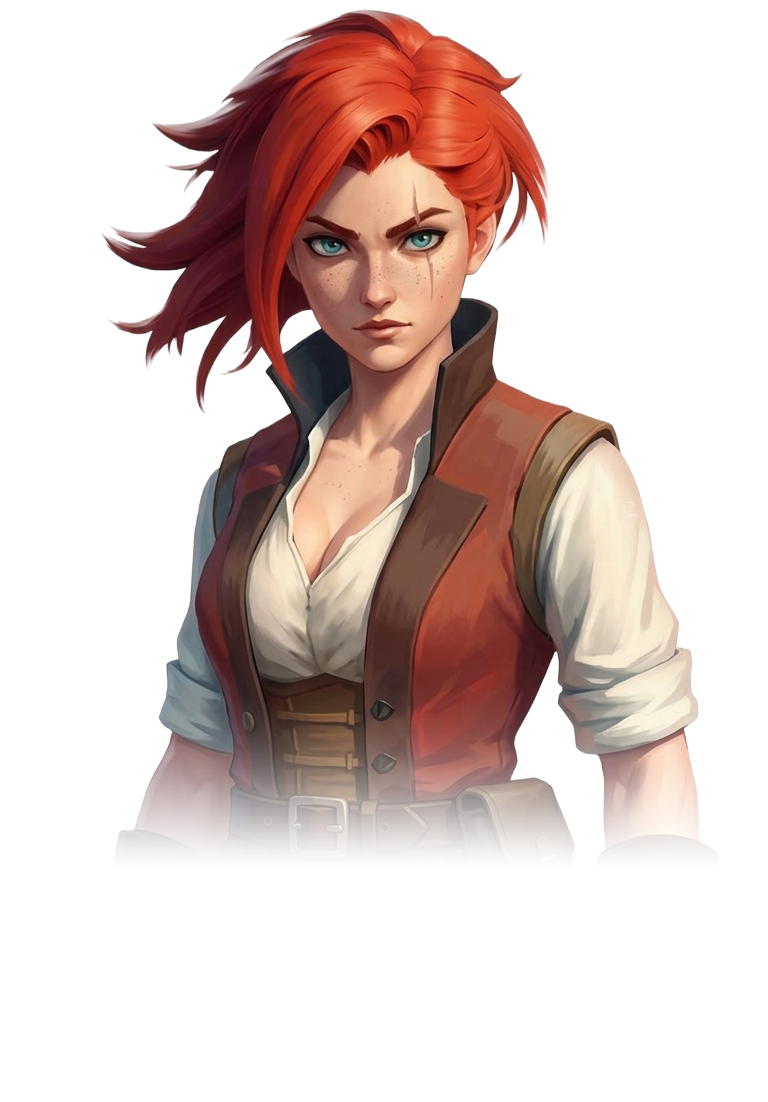
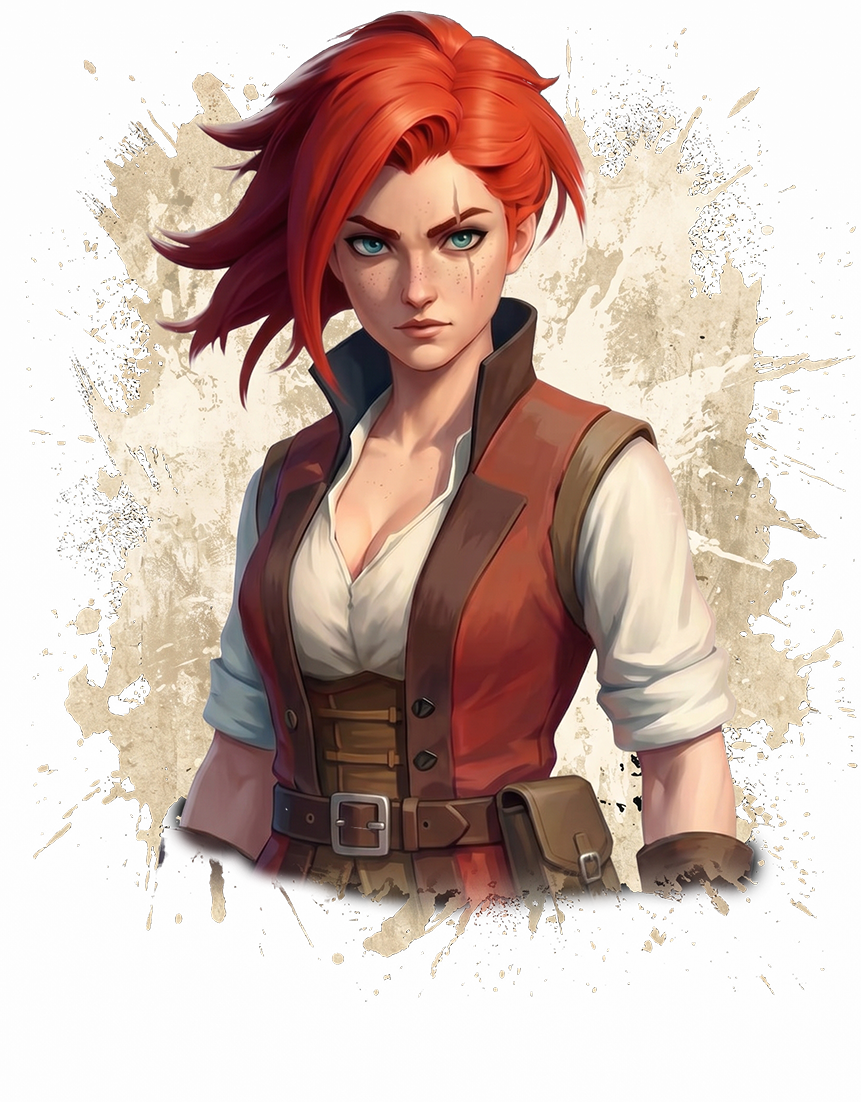
Add files via upload

diff --git a/style.css b/style.css
@@ -26,7 +26,7 @@
 :root {
     --color-bg: #0a0e17;           /* Основной фон */
     --color-bg-secondary: #0d1320; /* Фон вторичных секций */
-    --color-accent: #c9a227;       /* Золотой акцент */
+    --color-accent: #F9CE50;       /* Золотой акцент */
     --color-accent-hover: #e5c44a; /* Золотой при наведении */
     --color-text: #e8e4dc;         /* Основной текст */
     --color-text-muted: #8a8a8a;   /* Приглушенный текст */
@@ -219,10 +219,9 @@ body {
 
 .star {
     position: absolute;
-    background: white;
+    background: rgba(255, 255, 255, 0.7);
     border-radius: 50%;
-    box-shadow: 0 0 4px 1px rgba(255, 255, 255, 0.8),
-                0 0 8px 2px rgba(200, 220, 255, 0.4);
+    box-shadow: 0 0 2px 1px rgba(255, 255, 255, 0.3);
     animation: twinkle ease-in-out infinite;
 }
 
@@ -255,7 +254,7 @@ body {
     z-index: 10;
     text-align: center;
     margin: auto;
-    padding: 60vh 24px 50px; /* Контент ещё ниже */
+    padding: 52vh 24px 50px; /* Контент ниже, но в пределах экрана */
 }
 
 .hero-title {
@@ -267,7 +266,7 @@ body {
    Измени max-width чтобы увеличить/уменьшить
    ============================================ */
 .hero-title img {
-    max-width: 200px;  /* <-- ИЗМЕНИ РАЗМЕР ЛОГОТИПА ЗДЕСЬ */
+    max-width: 320px;  /* <-- ИЗМЕНИ РАЗМЕР ЛОГОТИПА ЗДЕСЬ */
     width: 100%;
     height: auto;
     filter: drop-shadow(0 4px 30px rgba(0, 0, 0, 0.8));
@@ -727,11 +726,11 @@ body {
 }
 
 .closing-heroine {
-    width: 350px;
+    width: 420px;
     height: auto;
     filter: drop-shadow(0 4px 15px rgba(0, 0, 0, 0.4));
     /* РАССТОЯНИЕ: портрет героини → текст (десктоп) */
-    margin-bottom: -80px;
+    margin-bottom: -40px;
 }
 
 .closing-text {
@@ -939,7 +938,7 @@ body {
     }
 
     .hero-title img {
-        max-width: 400px;
+        max-width: 320px;
     }
 }
 
@@ -982,7 +981,7 @@ body {
     }
 
     .hero-title img {
-        max-width: 180px; /* Меньше логотип */
+        max-width: 320px; /* Меньше логотип */
     }
 
     .cta-button-img img {
@@ -1109,9 +1108,9 @@ body {
     }
 
     .closing-heroine {
-        width: 250px;
+        width: 300px;
         /* РАССТОЯНИЕ: портрет героини → текст (планшеты/мобилки до 768px) */
-        margin-bottom: -50px;
+        margin-bottom: -20px;
     }
 
     .closing-text {
@@ -1151,7 +1150,7 @@ body {
     }
 
     .hero-title img {
-        max-width: 160px; /* Еще меньше логотип */
+        max-width: 240px; /* Еще меньше логотип */
     }
 
     .cta-button-img img {
@@ -1249,9 +1248,9 @@ body {
     }
 
     .closing-heroine {
-        width: 192px;
+        width: 230px;
         /* РАССТОЯНИЕ: портрет героини → текст (маленькие мобилки до 480px) */
-        margin-bottom: -50px;
+        margin-bottom: 0px;
     }
 
     .closing-text {

diff --git a/index.html b/index.html
@@ -385,10 +385,6 @@
         <div class="star star-4"></div>
         <div class="star star-5"></div>
         <div class="star star-6"></div>
-        <div class="star star-7"></div>
-        <div class="star star-8"></div>
-        <div class="star star-9"></div>
-        <div class="star star-10"></div>
     </div>
 
     <script>

diff --git a/AGENTS.md b/AGENTS.md
@@ -1,0 +1,94 @@
+# Pirate Ships Landing Page — Руководство для AI-агентов
+
+## Обзор проекта
+
+Это статический лендинг для игры **Pirate Ships** (PvP-игра о строительстве кораблей и морских битвах). Сайт полностью на русском языке и представляет собой одностраничное приложение с семью основными секциями:
+
+1. **Navigation** — фиксированная шапка с логотипом и меню.
+2. **Hero** — полноэкранный баннер с Key Art, мерцающими звёздами и CTA-кнопкой.
+3. **About** — текстовое описание игры.
+4. **Features** — три карточки с особенностями игры.
+5. **Screenshots** — горизонтальная карусель скриншотов с drag-to-scroll.
+6. **Closing CTA** — финальный призыв к действию.
+7. **Footer** — ссылки и копирайт.
+
+## Структура проекта
+
+```
+.
+├── index.html          # Единственный HTML-файл (разметка + inline JS)
+├── style.css           # Единственный файл стилей (~1100 строк)
+└── images/             # Все изображения и ассеты
+    ├── KeyArt.jpg
+    ├── logo_header.png
+    ├── logo_box.png
+    ├── Play_BTN.png
+    ├── feature_shipbuilding.png
+    ├── feature_pvp.jpg
+    ├── feature_pve.png
+    ├── screenshot1.jpg … screenshot5.jpg
+    ├── screenshots_bg.png
+    ├── heroine_new.png
+    ├── brush_1.png
+    └── Brush_2.png
+```
+
+## Технологический стек
+
+- **HTML5** — семантическая разметка, русский язык контента (`lang="ru"`).
+- **CSS3** — кастомные свойства в `:root`, анимации (`@keyframes`), flexbox, grid, медиа-запросы для адаптивности.
+- **Vanilla JavaScript** — весь интерактив (мобильное меню, карусель, lightbox, свайпы) находится в конце `index.html` внутри `<script>`.
+- **Внешние зависимости** — только шрифт **Lora** с Google Fonts.
+- **Нет сборщиков, нет пакетных менеджеров** — проект не использует `package.json`, `pyproject.toml`, `Cargo.toml` или аналогичные конфигурации.
+
+## Архитектура и организация кода
+
+- **Монолитная структура**: весь HTML и JS содержится в одном файле `index.html`, а все стили — в `style.css`.
+- **CSS-переменные** в `:root` задают единую цветовую схему и типографику:
+  - `--color-bg: #0a0e17`
+  - `--color-accent: #c9a227`
+  - `--font-heading: 'Lora', serif`
+- **Комментарии в коде** на русском языке разделяют секции и указывают, что можно редактировать.
+- **Интерактивные компоненты** реализованы без сторонних библиотек:
+  - Мобильное меню (бургер).
+  - Карусель скриншотов со стрелками, drag-to-scroll и touch-свайпами.
+  - Lightbox для полноэкранного просмотра скриншотов с клавиатурной навигацией (Escape, стрелки).
+
+## Адаптивность
+
+Медиа-запросы в `style.css` обеспечивают адаптацию под три диапазона:
+
+- **Десктоп** — полная версия.
+- **Планшеты (`max-width: 1024px`)** — сетка фичей из 2 колонок, увеличенные скриншоты.
+- **Мобильные (`max-width: 768px` и `max-width: 480px`)** — одноколоночный layout, скрытые декоративные звёзды, упрощённая навигация, скрытые стрелки карусели.
+
+## Соглашения по разработке
+
+- **Язык комментариев** — русский. Все пояснения и разделители секций написаны на русском.
+- **Маркеры для редактирования** — в HTML используется комментарий `<!-- ЗАМЕНИТЬ: ... -->`, чтобы указать кастомизируемый контент (тексты, ссылки, пути к изображениям).
+- **Безопасность** — проект чисто клиентский, нет серверной логики, API-запросов или обработки пользовательских данных. Единственное внешнее подключение — Google Fonts через HTTPS.
+
+## Сборка и деплой
+
+- **Сборка не требуется** — проект состоит из статических файлов.
+- **Локальный запуск** — достаточно открыть `index.html` в браузере или запустить простой HTTP-сервер (например, `python -m http.server` или `npx serve`).
+- **Деплой** — копирование файлов `index.html`, `style.css` и папки `images/` на любой статический хостинг (GitHub Pages, Netlify, Vercel, S3 и т.д.).
+
+## Тестирование
+
+- **Автоматизированных тестов нет**.
+- **Ручное тестирование** рекомендуется проводить в следующих сценариях:
+  1. Проверка адаптивности в DevTools (ширины 1920px, 1024px, 768px, 390px).
+  2. Проверка карусели: drag мышью, свайп на тач-устройстве, клик по скриншоту для открытия lightbox.
+  3. Проверка мобильного меню: открытие/закрытие бургером.
+  4. Проверка кросс-браузерности: Chrome, Firefox, Safari, Edge (последние версии).
+
+## Чек-лист при внесении изменений
+
+При редактировании лендинга следуй этому порядку:
+
+1. **Тексты и ссылки** — ищи комментарии `<!-- ЗАМЕНИТЬ: ... -->` в `index.html`.
+2. **Цвета и шрифты** — меняй CSS-переменные в `:root` в начале `style.css`.
+3. **Изображения** — добавляй новые файлы в `images/` и обновляй `src` в HTML/CSS. Соблюдай регистр имён файлов (например, `Brush_2.png` с заглавной буквы).
+4. **Скриншоты** — добавляй/удаляй блоки `.screenshot-item` в секции Screenshots. Индексы (`data-index`) должны идти последовательно от 0.
+5. **Стили для новых элементов** — добавляй в соответствующую секцию `style.css`, сохраняя существующий порядок и форматирование.
